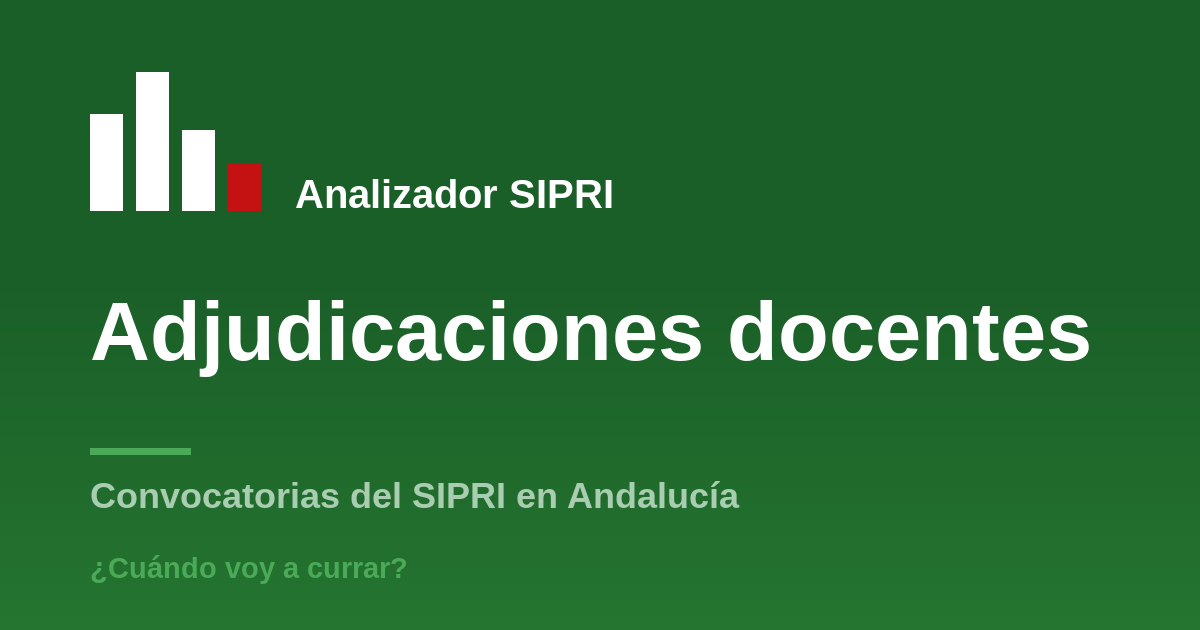
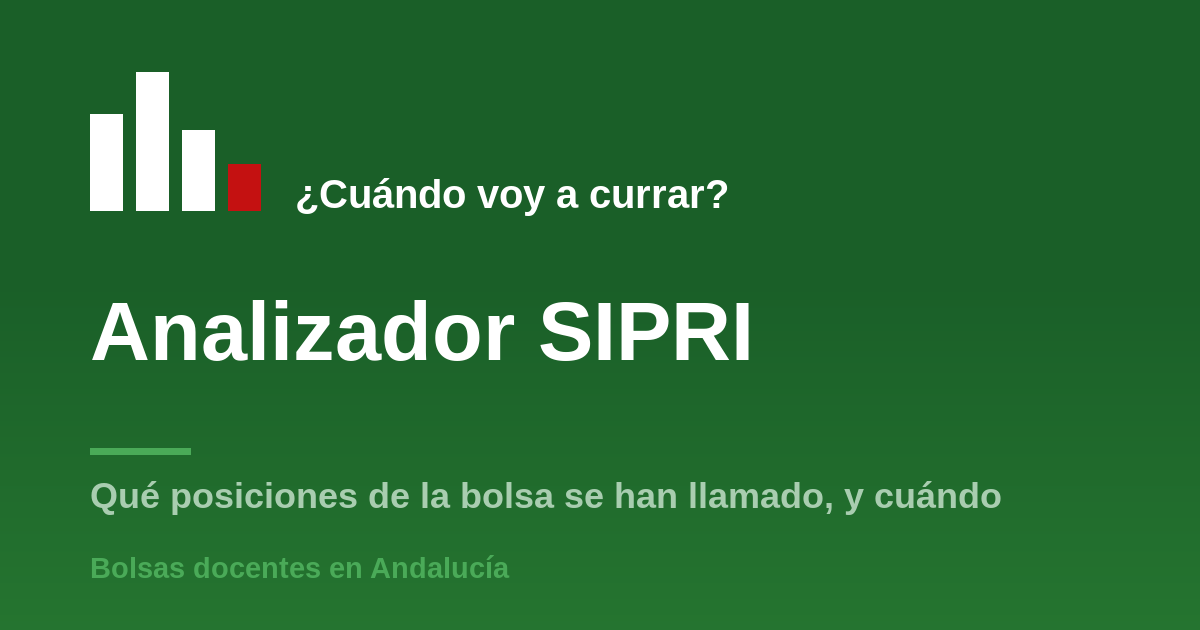
fix: update meta description and og-images

diff --git a/src/Command/GenerarOgImagesCommand.php b/src/Command/GenerarOgImagesCommand.php
@@ -23,6 +23,11 @@ use Symfony\Component\Console\Style\SymfonyStyle;
 )]
 class GenerarOgImagesCommand extends Command
 {
+
+    private const string TITLE1 = '¿Cuándo voy a currar?';
+    private const string TITLE2 = 'Analizador SIPRI';
+    private const string TITLE3 = 'Qué posiciones de la bolsa se han llamado, y cuándo';
+    private const string TITLE4 = 'Bolsas docentes en Andalucía';
     private const int ANCHO = 1200;
     private const int ALTO = 630;
 
@@ -33,18 +38,19 @@ class GenerarOgImagesCommand extends Command
 
     /** Una imagen por sección; la clave es el nombre del fichero. */
     private const array VARIANTES = [
-        'default' => ['titulo' => 'Adjudicaciones docentes', 'sub' => 'Convocatorias del SIPRI en Andalucía'],
-        'especialidad' => ['titulo' => 'Especialidades', 'sub' => 'Qué posiciones de la bolsa se han llamado, y cuándo'],
-        'convocatoria' => ['titulo' => 'Convocatorias', 'sub' => 'Plazas ofertadas en cada adjudicación del SIPRI'],
-        'centro' => ['titulo' => 'Centros', 'sub' => 'Plazas ofertadas centro por centro'],
-        'cuerpo' => ['titulo' => 'Cuerpos docentes', 'sub' => 'Secundaria, Maestros, FP, Idiomas, Música y Artes'],
-        'faq' => ['titulo' => 'Preguntas frecuentes', 'sub' => 'De dónde salen los datos y cómo interpretarlos'],
+        'default' => ['titulo' => self::TITLE2, 'sub' => self::TITLE3],
+//        'especialidad' => ['titulo' => 'Especialidades', 'sub' => 'Qué posiciones de la bolsa se han llamado, y cuándo'],
+//        'convocatoria' => ['titulo' => 'Convocatorias', 'sub' => 'Plazas ofertadas en cada adjudicación del SIPRI'],
+//        'centro' => ['titulo' => 'Centros', 'sub' => 'Plazas ofertadas centro por centro'],
+//        'cuerpo' => ['titulo' => 'Cuerpos docentes', 'sub' => 'Secundaria, Maestros, FP, Idiomas, Música y Artes'],
+//        'faq' => ['titulo' => 'Preguntas frecuentes', 'sub' => 'De dónde salen los datos y cómo interpretarlos'],
     ];
 
     public function __construct(
         #[Autowire('%kernel.project_dir%')]
         private readonly string $projectDir,
-    ) {
+    )
+    {
         parent::__construct();
     }
 
@@ -116,7 +122,7 @@ class GenerarOgImagesCommand extends Command
             imagefilledrectangle($img, $bx + $dx, $base - $alto, $bx + $dx + 32, $base, $tono);
         }
 
-        imagettftext($img, 30, 0, $bx + 205, $base - 2, $blanco, $fuente, 'Analizador SIPRI');
+        imagettftext($img, 30, 0, $bx + 205, $base - 2, $blanco, $fuente, self::TITLE1);
 
         // Título de la sección, partido en líneas si no cabe
         $y = 360;
@@ -133,7 +139,7 @@ class GenerarOgImagesCommand extends Command
             $y += 40;
         }
 
-        imagettftext($img, 22, 0, 90, self::ALTO - 52, $verdeClaro, $fuente, '¿Cuándo voy a currar?');
+        imagettftext($img, 22, 0, 90, self::ALTO - 52, $verdeClaro, $fuente, self::TITLE4);
 
         imagepng($img, $ruta, 9);
         imagedestroy($img);
